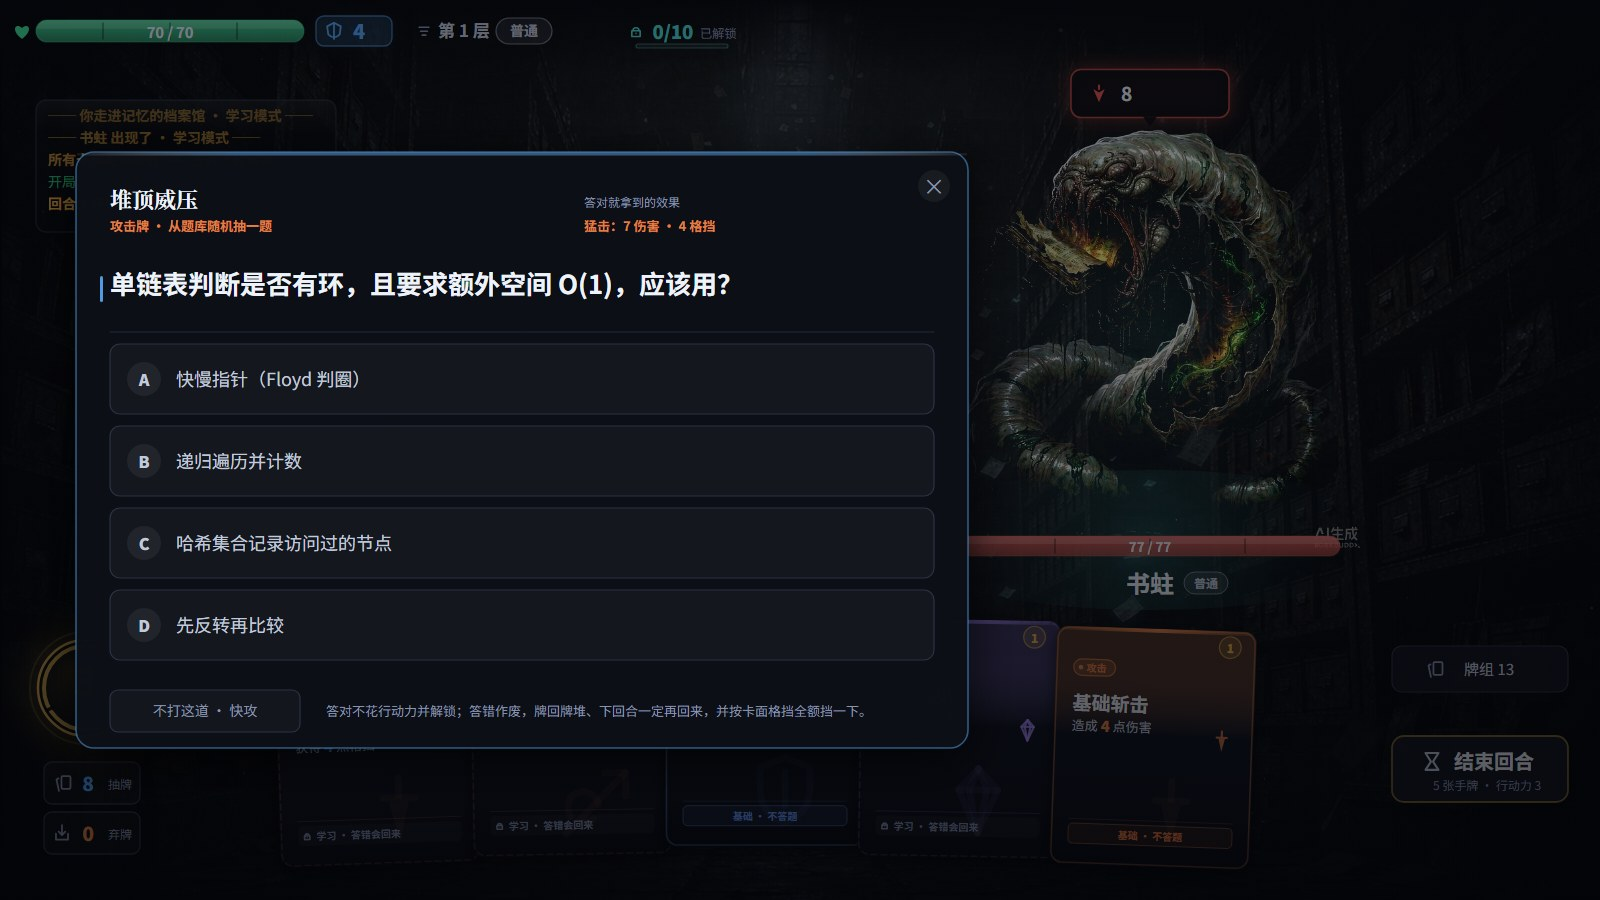
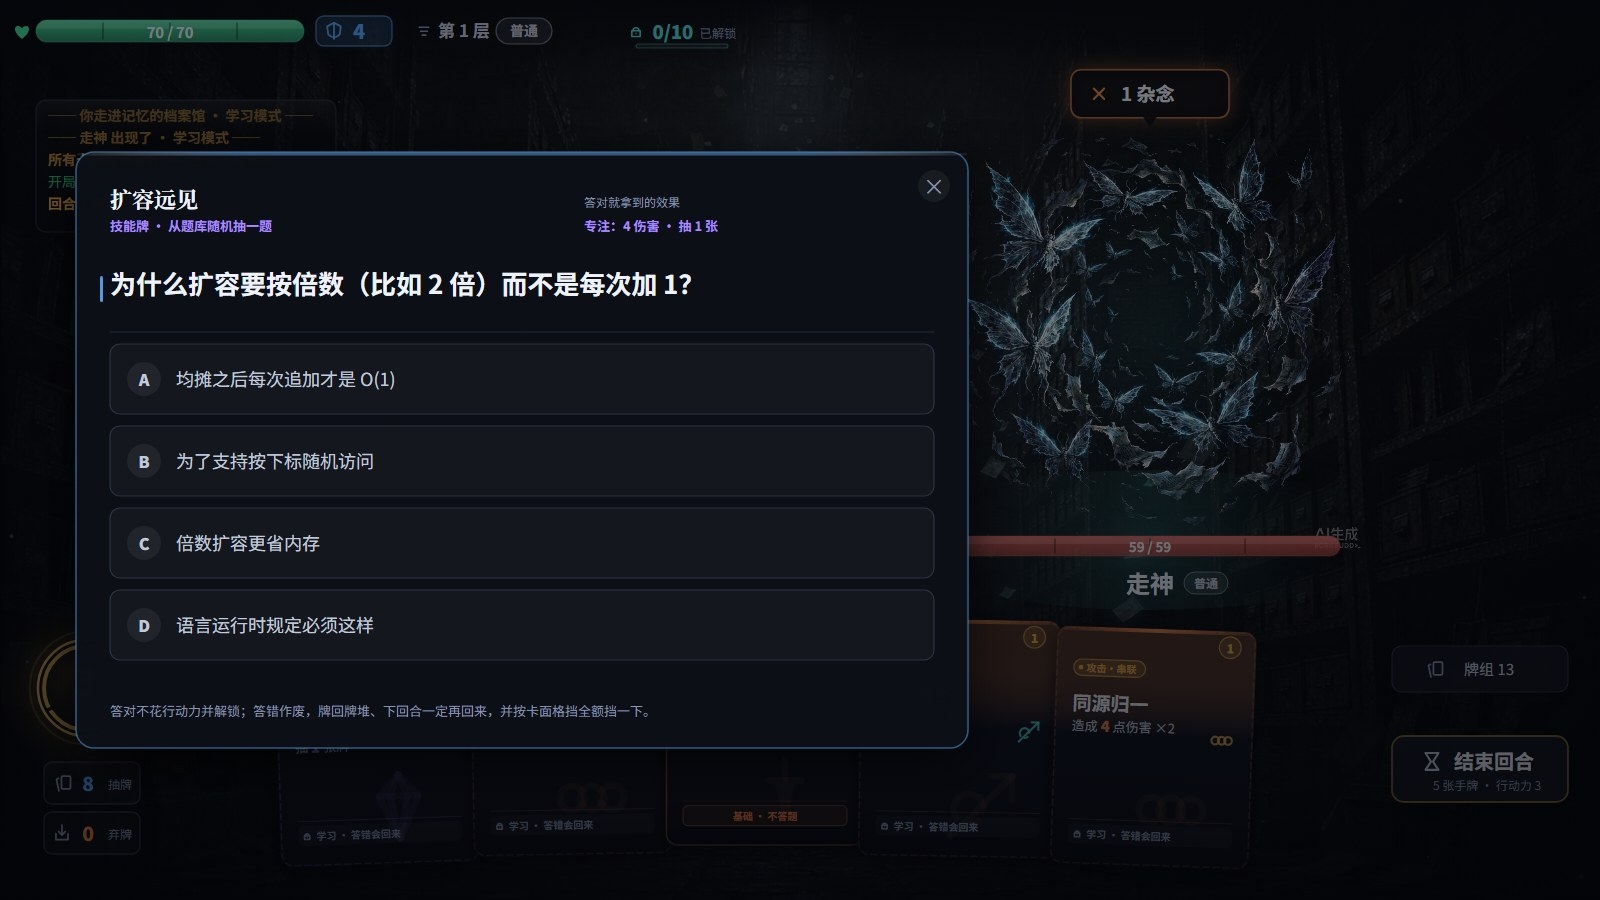
feat: 移除快攻机制
以前点开一张牌之后，答题面板底部有一条「不打这道 · 快攻」：不答题、打半额伤害、
不进复习调度、照扣 1 点行动力。它是这套规则里唯一的"绕过去"路径 —— 不认识这道题，
也能换一点输出，代价只是钱少给一半。

去掉的理由：它把"答题"降级成了可选项。答错本身不扣血（只锁这一手、或作废这一场），
于是快攻就成了一个体面的退路，玩家可以永远不答、只靠半额伤害往前拱。
现在点开就是承诺把它答完：中途可以取消（Esc / 面板右上角的 ×），但那道题已经从
题池里划掉，既不退款也不出伤害。想让一回合有输出，只剩答对。

连带：
- `quickPlay()` 整个删除，`Feedback` 里的 `quick` 字段一并去掉；
- 答题面板底部那行按钮换成一行模式提示（面板高度不变，排版未动）；
- 反馈面板不再有「快攻」标题；
- 测试模式答错的卡种从「只能快攻」改成「这一场打不出去」——它现在是彻底的点数沉没；
- 复习官机制的文案改写（「专治全程快攻」已经无意义）；
- 模拟机器人丢掉快攻兜底，手里只剩打不出的牌就直接结束回合；
- `docs/ask.jpg` 重拍（按钮没了），README 与 CHANGELOG 同步。

800 局实测：复习 4 / 31 / 62 / 79、学习 25 / 58 / 75 / 85、测试 0 / 5 / 20 / 61。
梯度都还在；测试模式熟练档从 24 掉到 20，是因为作废的牌从"还能换半额输出"
变成"彻底沉没"，方向符合预期，其余格子落在采样噪声内。

diff --git a/src/core/combat/play.ts b/src/core/combat/play.ts
@@ -18,9 +18,9 @@ import { isUnlocked, unlockStats } from './unlock';
 /**
  * combat/play —— 一场战斗的开局，以及玩家出牌的全部路径。
  *
- * 出牌有三条路：答题（answer）、免答（playUnlocked）、快攻（quickPlay），
- * 还有一条不打伤害的增益牌（playPower）。前三条都从 `strikeWith` 走，
- * 数值才不会出现"卡面和结算对不上"。
+ * 出牌有四条路：答题（answer）、免答（playUnlocked）、基础牌（playBasic）
+ * 和增益牌（playPower）。前三条都把卡面数字经 `strikeWith` 结算，
+ * 数值才不会出现"卡面和结算对不上"；增益牌不打伤害，只改本场规则。
  */
 const join = (a: string, b: string) => (a ? a + ' ' : '') + b;
 
@@ -119,7 +119,7 @@ function damageEnemy(raw: number, pierce = false) {
 
 /**
  * 一张卡真正打出去的那一下。mult 是倍率（未解锁的答题出牌传 1，
- * 已解锁的免答出牌传 BAL.freeMult）。答题、免答、快攻三条路都从这里走，
+ * 已解锁的免答出牌传 BAL.freeMult）。答题、免答、基础牌三条路都从这里走，
  * 数值才不会出现"卡面和结算对不上"。
  */
 function strikeWith(ent: CardInst, mult: number) {
@@ -227,9 +227,9 @@ export function answer(choice: number) {
       backToDraw = true;
       apNote = join(apNote, '学习模式：牌回到牌堆，下一回合会再抽到它。');
     } else if (M.forget) {
-      // 测试：这个卡种本场作废。还能快攻，但不能再答题 —— 错了就是错了。
+      // 测试：这个卡种本场作废 —— 不能再答题，也打不出去。错了就是错了。
       G.forgotten[card.id] = true;
-      apNote = join(apNote, '测试模式：这个卡种本场作废，只能快攻。');
+      apNote = join(apNote, '测试模式：这个卡种本场作废，这一场它打不出去。');
     } else {
       // 复习：这张牌进弃牌堆，这一场它不再自动回来 —— 想再见它得等洗牌。
       apNote = join(apNote, '复习模式：它进了弃牌堆，要等洗牌才回来。');
@@ -331,7 +331,7 @@ export function answer(choice: number) {
   G.panel = {
     k: 'feedback',
     fb: {
-      idx, qi, choice, right, quick: false,
+      idx, qi, choice, right,
       dmg, absorbed, blk: blkGain, eff: card.eff, hits, heal, draw: drawn, apNote,
       explain: q.explain, question: q.q, options: view.options, answer: view.answer,
       topic: card.topic,
@@ -494,33 +494,3 @@ export function playBasic(idx: number) {
   }, 200);
 }
 
-export function quickPlay(idx: number) {
-  if (G.busy || G.panel.k !== 'none' || G.ap <= 0) return;
-  const ent = G.hand[idx];
-  if (!ent) return;
-  const card = defOf(ent);
-  if (cardKind(card) !== 'knowledge') return;
-
-  const dmg = Math.floor(statOf(ent).atk / 2);
-  damageEnemy(dmg);
-  // 快攻没有"答对"，所以拿不到那一手退款 —— 绕过去也要付钱，只是付得少
-  G.ap -= 1;
-  G.cardsPlayed += 1;
-  G.ap = clamp(G.ap, 0, 10);
-  G.busy = true;
-  G.discard.push(ent);
-  G.hand.splice(idx, 1);
-  log(`快攻「${card.topic}」，${dmg} 点伤害（未计入复习）`, '');
-  checkPending();
-  emit({ t: 'dmg', n: dmg, absorbed: 0, eff: card.eff, seq: 0 });
-
-  G.panel = {
-    k: 'feedback',
-    fb: {
-      idx, qi: 0, choice: -1, right: false, quick: true,
-      dmg, absorbed: 0, blk: 0, eff: 'strike', hits: [dmg], heal: 0, draw: 0, apNote: '',
-      explain: '它明年还是这个强度——你只是绕过去了，没有变强。',
-      question: '快攻', options: [], answer: -1, topic: card.topic,
-    },
-  };
-}

diff --git a/src/scenes/overlay.ts b/src/scenes/overlay.ts
@@ -6,7 +6,7 @@ import { BAL, EFFS, MODE_KEYS, MODES, effSummary } from '../core/model';
 import { clamp, G } from '../core/infra';
 import { BANK, bankQuestionCount, bankTopics, memOf, memRatio } from '../core/library';
 import { BASICS, basicsSummary, cardKind, cardType, CARD_TYPE_META, defOf, statOf } from '../core/cards';
-import { answer, cancelPanel, quickPlay } from '../core/combat';
+import { answer, cancelPanel } from '../core/combat';
 import {
   chooseEventOption, dismissFeedback, forgetCard, openCardPick, restHeal, startRun,
   skipPower, skipReward, takeCard, takePower, upgradeCard,
@@ -225,23 +225,10 @@ function drawQuestion(idx: number, q: Question, view: QView) {
     onClick(x + 34, by, w - 68, oh, () => answer(i), 'opt');
   });
 
-  // 底部：逃生口 + 代价提醒
+  // 底部一行：这一局的答错价码。模式是开局选定的、整局不变，
+  // 所以这里只说一次，不再按卡自己的阶段分两句。
   const by = y + h - 58;
-  const qx = x + 34;
-  const qhv = hover(qx, by, 190, 42);
-  roundRect(qx, by, 190, 42, 8);
-  g.fillStyle = qhv ? 'rgba(255,255,255,.1)' : 'rgba(255,255,255,.03)';
-  g.fill();
-  g.strokeStyle = qhv ? C.lineHi : C.line;
-  g.lineWidth = 1.2;
-  g.stroke();
-  text('不打这道 · 快攻', qx + 95, by + 21, { size: 14, align: 'center', color: qhv ? C.ink : C.dim });
-  onClick(qx, by, 190, 42, () => quickPlay(idx), 'quick');
-
-  // 这一行只在"手指已经按下去"的那一刻有用，所以它先说清这一局的答错价码 ——
-  // 模式是开局选定的，整局不变，不再按这张卡自己的阶段分两句。
-  text(MODES[G.mode].hint,
-    x + 250, by + 21, { size: 13, color: C.dim, maxW: w - 270 });
+  text(MODES[G.mode].hint, x + 34, by + 21, { size: 13, color: C.dim, maxW: w - 68 });
 }
 
 /* ── 答题结果 ─────────────────────────────────────────────── */
@@ -272,7 +259,7 @@ function drawFeedback() {
   dim(0.55);
   box(x, y, w, h, withAlpha(col, 0.6));
 
-  text(fb.right ? '正确' : fb.quick ? '快攻' : '答错', x + 34, y + 52, {
+  text(fb.right ? '正确' : '答错', x + 34, y + 52, {
     size: 30, weight: 800, family: FONT_TITLE, color: col,
   });
   text(fb.topic, x + w - 90, y + 52, {
@@ -724,7 +711,7 @@ function drawHelp() {
     ['三种模式，开局前选', [
       '学习：答错只作废这一手，牌回抽牌堆，下一回合一定再抽到；补全额卡面格挡。适合第一次见这些题。',
       '复习：答错作废，牌进弃牌堆，要等洗牌才回来；补半额格挡。适合学过一遍、要求稳。',
-      '测试：答错作废，这个卡种本场作废（只能快攻）；没有格挡补偿。答对稳固度涨得更多。',
+      '测试：答错作废，这个卡种本场作废（这一场既不能答题、也打不出去）；没有格挡补偿。答对稳固度涨得更多。',
       '模式只影响这一局的答错价码，不改卡面数值、不改题库，也不动你已经攒下的记忆。',
     ]],
     ['行动力是唯一的节奏', [

diff --git a/tools/sim.ts b/tools/sim.ts
@@ -16,7 +16,7 @@ import type { RunMode } from '../src/core/model';
 import {
   G, PACK, answer, availableNodes, bankQuestionCount, canAsk, chooseEventOption, defOf, dismissFeedback,
   endTurn, enterNode, isUnlocked, loadQuestionBank, playBasic, playPower, playUnlocked, resetMemory, restHeal,
-  quickPlay, skipReward, startRun, takeCard, takePower, askCard, mergePacks,
+  skipReward, startRun, takeCard, takePower, askCard, mergePacks,
 } from '../src/core';
 
 /**
@@ -178,10 +178,8 @@ function runOne(p: number, st: Stat) {
         // 它是这一局的地板，模拟不打出它，会把低水平的胜率算得比实际更狠。
         const bas = G.hand.findIndex((c) => !c.junk && defOf(c).kind === 'basic');
         if (bas >= 0) { basics += 1; playBasic(bas); continue; }
-        // 手里只剩打不出的牌（答错锁住的、复习期作废的）时，真人是会快攻的：
-        // 半额伤害也是伤害，总比把行动力扔掉好。不模拟这一手，会把惩罚算得比实际更狠。
-        const dead = G.hand.findIndex((c) => !c.junk && !defOf(c).power);
-        if (dead >= 0) { quickPlay(dead); continue; }
+        // 手里只剩打不出的牌（答错锁住的、测试模式作废的）→ 结束回合。
+        // 快攻取消之后，剩下的行动力就是扔掉的，这是这一版的正常代价。
       }
       endTurn();
       turns += 1;

diff --git a/src/core/model/data.ts b/src/core/model/data.ts
@@ -13,7 +13,7 @@ export const FOES: FoeTpl[] = [
   {
     key: 'examiner', name: '复习官', type: 'fight', art: 'examiner', tag: '普通',
     hp: 62, dmg: 8, moves: [{ k: 'atk', m: 1 }], mech: 'reviewer',
-    hint: '一回合内没有真正答对任何一张卡，它额外打你 3 点。快攻流在这里会被惩罚。',
+    hint: '一回合内没有真正答对任何一张卡，它额外打你 3 点 —— 不答题就没有输出。',
   },
   {
     key: 'echo', name: '回声', type: 'fight', art: 'shard', hue: 130, tag: '普通',
@@ -170,7 +170,7 @@ export const MODES: Record<RunMode, ModeDef> = {
     missBlock: 0, stabDrop: 0.15, stabGain: 1.35,
     missDest: 'discard', forget: true,
     cardLabel: '测试 · 答错本场作废',
-    hint: '答对不花行动力并解锁；答错作废，这个卡种本场作废（只能快攻），没有格挡补偿。',
+    hint: '答对不花行动力并解锁；答错作废，这个卡种本场作废（这一场打不出去），没有格挡补偿。',
   },
 };
 

diff --git a/src/core/model/types.ts b/src/core/model/types.ts
@@ -284,7 +284,6 @@ export interface Feedback {
   qi: number;
   choice: number;
   right: boolean;
-  quick: boolean;
   /** 总伤害（分段结算后相加） */
   dmg: number;
   absorbed: number;
@@ -388,7 +387,7 @@ export interface GameState {
    * 本场已经作废的卡种 —— 测试模式答错的那几张。
    *
    * 和 `failedTurn` 是两档惩罚：failedTurn 只锁一个回合（看看答案还能再试），
-   * 这一档锁整场（测试模式答错 = 这一次没通过）。作废的牌仍然能快攻，不然手牌会堵死。
+   * 这一档锁整场（测试模式答错 = 这一次没通过）。作废的牌既不能答题、也打不出去，只能等这一场结束。
    */
   forgotten: Record<string, boolean>;
   /**

diff --git a/src/scenes/battle.ts b/src/scenes/battle.ts
@@ -971,9 +971,9 @@ function drawHand(t: number, dt: number) {
         if (G.ap <= 0) { FX.shake(6); return; }
         if (open) { playUnlocked(s.i); return; }
         if (isForgotten(card.id)) {
-          // 作废的牌还能快攻 —— 但不说明白，玩家会以为自己点不动它
+          // 作废的牌打不出去 —— 但不说明白，玩家会以为自己点不动它
           FX.shake(4);
-          FX.floatText(HAND.cx, HAND.cy - 54, '这一场它已经作废了 —— 只能快攻', C.red, 20, { vy: -34 });
+          FX.floatText(HAND.cx, HAND.cy - 54, '这一场它已经作废了 —— 打不出去', C.red, 20, { vy: -34 });
           return;
         }
         if (canAsk(ent)) { askCard(s.i); return; }

diff --git a/src/core/cards/basics.ts b/src/core/cards/basics.ts
@@ -9,7 +9,7 @@ import type { CardDef, CardInst } from '../model/types';
  * 抽到的全是够不着的知识卡，就整手牌都打不出去。
  *
  * 为什么需要它们：知识卡全都要答题，答错这一手就作废，测试模式甚至会把卡种
- * 作废。于是"不会"的代价会变成"什么都不能做"——这一回合只剩下快攻。
+ * 作废。于是"不会"的代价会变成"什么都不能做"——这一回合一张牌都打不出去。
  * 基础牌就是这个下限：数值刻意压得比知识卡低，所以它保证你**不会卡死**，
  * 但不保证你**打得赢**。想赢还是得答题、解锁、用 ×1.5 的免答牌。
  *

diff --git a/src/gfx/ui.ts b/src/gfx/ui.ts
@@ -201,7 +201,7 @@ export interface CardOpts {
    * 战斗中的解锁状态。只有手牌会传 —— 牌组/奖励列表传了没意义，
    * 那两个界面关心的是"这张卡是什么"，不是"这一场能不能用"。
    *
-   * `forgotten` 是测试模式答错的结果：这一场这个卡种作废了（还能快攻，但不能答题）。
+   * `forgotten` 是测试模式答错的结果：这一场这个卡种作废了（既不能答题，也打不出去）。
    * `basic` 是初始牌组：不答题、随时可打，所以它不画成一幅"封印"的样子。
    */
   state?: 'locked' | 'open' | 'spent' | 'forgotten' | 'basic';

diff --git a/src/core/combat/index.ts b/src/core/combat/index.ts
@@ -2,7 +2,7 @@
  * combat —— 战斗工具包。
  *
  * unlock 管本场卡种锁，deck 管牌堆循环，foe 管敌人招式与敌人回合，
- * play 管开局与玩家出牌的四条路径（答题 / 免答 / 快攻 / 基础牌）。
+ * play 管开局与玩家出牌的四条路径（答题 / 免答 / 基础牌 / 增益牌）。
  * 四个文件按「状态 → 循环 → 对手 → 出手」排，不互相倒着引用。
  */
 export * from './unlock';

diff --git a/CHANGELOG.md b/CHANGELOG.md
@@ -2,6 +2,19 @@
 
 ## 未发布
 
+### 玩法
+
+- **移除快攻**。以前点开一张牌之后，答题面板底部有一个「不打这道 · 快攻」：不答题、
+  打半额伤害、不进复习调度、照扣 1 点行动力。现在点开就是承诺把它答完 —— 中途只能
+  取消（Esc / 面板右上角的 ×），而那道题已经从题池里划掉，既不退款也不出伤害。
+  换句话说，「绕过去」这条路整个关掉了：想让一回合有输出，只剩答对。
+- 连带的行为与文案：答题面板底部那条按钮换成一行模式提示；反馈面板不再有「快攻」标题；
+  测试模式答错的卡种从「只能快攻」改成「这一场打不出去」——它现在是彻底的点数沉没；
+  模拟机器人丢掉快攻兜底，手里只剩打不出的牌时直接结束回合。
+- 800 局实测（`npm run sim -- --runs=800 --mode=…`）：复习 4 / 31 / 62 / 79，
+  学习 25 / 58 / 75 / 85，测试 0 / 5 / 20 / 61。梯度都还在；测试模式熟练档从 24 掉到 20 ——
+  作废的牌从"还能换半额输出"变成"彻底沉没"，方向符合预期，其余格子落在采样噪声内。
+
 ### 工程
 
 - 新增 `tools/deps.mjs`：把 `src/core` 七个包的依赖方向写成检查，接进
